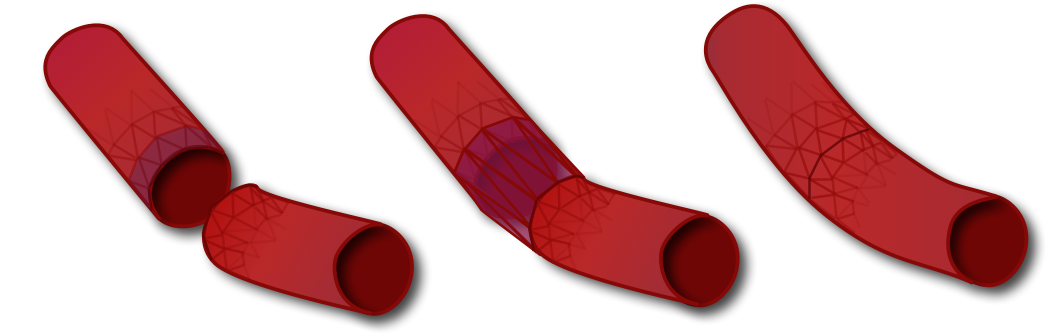
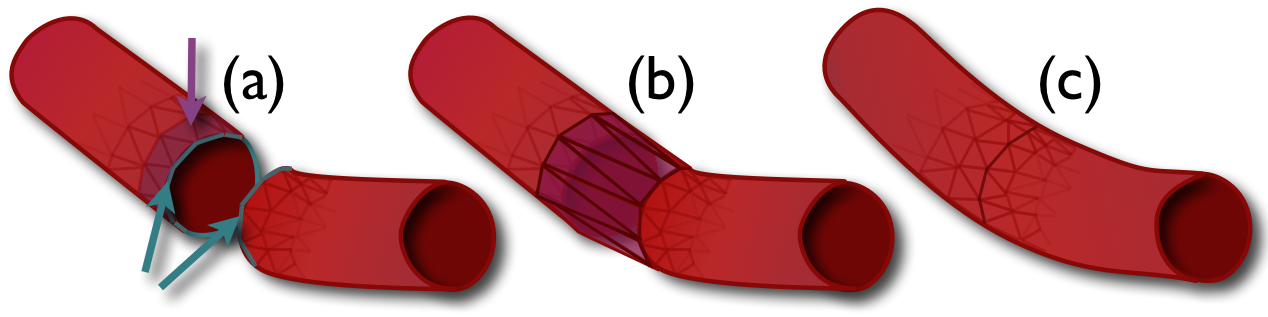
modifs on section 3
git-svn-id: svn+ssh://scm.gforge.inria.fr/svnroot/sofa-shells@351 7b2761c9-2758-49ef-8c29-9c9f1e1aad1b

Changed region(s): [[0.0, 0.0, 1.0, 0.9937]]

diff --git a/Doc/Miccai/simulation.tex b/Doc/Miccai/simulation.tex
@@ -1,9 +1,9 @@
+The primary goal of the surgery is to restore a normal heart function and circulation.
+This goal is reached by rebuilding the heart in a more or less anatomical way.
 There are several types of low-level task the surgeon usually employs while
-performing the surgery.
-The most common:
+performing the surgery that are:
 
 \begin{description}
-  \item Reconnection and joining of blood vessels to the arteries.
 
   \item[End to end aortoplasty:] the surgeon completely cuts away the
     affected part of aorta and sutures the two ends of aorta back together.
@@ -16,39 +16,40 @@ The most common:
     removing also half of the artery (along the axis) and part of the
     aorta in the affected place. He then uses the rest of the artery to
     patch the aorta.
+    
+  \item[Reconnection and joining of blood vessels:] In addition to the modification of the aorta, the surgeon is lead to establish certain connections that are absent in pathological anatomy.
 
 \end{description}
 
-With our method we are able to simulate all these tasks.
-We have based our general approach on the common task involved in all these operations which is suturing of two or more edges together.
-Since we are interested in predicting the result rather than creating a training simulator for suturing (trained surgeon knows well how to perform the sutures) the simplest way of performing the suture would be to connect the respective edges with springs. 
+With our method we are able to simulate these tasks, in order to be able to plan them.
+We have based our general approach on a common characteristic: In all these operations the surgeon sutures two or more edges of the vessel walls together.
+Since we are interested in predicting the results rather than creating a training simulator for suturing (trained surgeon knows well how to perform the sutures) the simplest way of performing the suture would be to connect the respective edges with springs. 
 Springs however adds some unwanted energy to the system. 
-Our method is based solely on the relaxation of the mesh of shell elements.
-%% christian: I like the "relaxation" term !!!
+Our method is based on a topological connection of the shell elements that are neighbors of the joining edges and a controlled relaxation of these shell elements' rest shape.
 
 We start with a mesh representing the situation after all the cuts have been performed but before suturing takes place. 
 In the first step we perform the required topological changes to the mesh. We keep the number of elements in new mesh the same as in the original mesh so that we can define 1:1 mapping between elements of these meshes.
-The Figure \ref{fig-JoiningVessels} explains this operation when joining vessels. 
-Then we start the simulation on the modified mesh while using the original mesh to define rest shapes of all shell elements. 
+The Figure \ref{fig-JoiningVessels} (a) and (b) explains this operation when joining vessels. 
+Then we start the simulation on the modified mesh while keeping the information of the original rest shapes of all shell elements. 
 
 \begin{figure}[tbh]
 \begin{center}
 \includegraphics[width=\columnwidth]{img/rest_shape_scheme.png}
 \end{center}
 
-\caption{Scheme showing the method for joining two vessels. \christian{Do we need to extend the scheme for every type of aortoplasty (end to end / Patch / Subclavian): it would illustrate that the relaxation method works for every case...}
-  \tomas{No we don't. This there will be real examples in results (if I remember correctly).} }
+\caption{Scheme showing the method for joining two vessels:  (a) the cut on vessel meshes is performed in a 3D geometry edition software. In the software, we impose that the number of segments that sample both joining edges is the same (\color{BlueGreen}{$\mathbf{\rightarrow}$}\color{black})
+Moreover, we select some shell elements that are neighbors of the edges (\color{purple}{$\mathbf{\rightarrow}$}\color{black}).
+(b) In our software, we connect the vessel topologies by performing a relaxation of the shape and the rest shape for the selected shells.  
+(c) We progressively re-contract the rest shape of the shells while computing the deformation of the whole unified mesh. 
+In the final steady state computed in the simulation, the shell elements have all their correct rest shape.}
 \label{fig-JoiningVessels}
 \end{figure}
 
-In case of non-trivial distance between the nodes that are sutured together the involved elements will undergo large deformation at the beginning of the simulation.
-This results in quick increase of internal forces which can cause unwanted effects.
+We can not always step back all the shells to their original shape (passage from figure \ref{fig-JoiningVessels} (b) to (c))  in a single simulation step. 
+In case of non-small distance between the nodes that are sutured together, the involved elements will undergo large deformation that could create quick and non-smooth increase of internal forces and  cause unwanted effects.
 To allevieate the problem we have implemented the technique that allows for moderate changes in the rest shape between simulation steps.
 Between the start and the end of the simulation we use a linear interpolation of the rest shape for the shells that lie along the sutured edges. 
-\christian{I think that it is unclear that we do the relaxation on some shells that are on the side edges of the connecting line}
-\tomas{I don't understand what do you mean by that. We will have to discuss that.}
-The interpolation starts with the rest shape equal to the deformed elements and we progressively recontract the rest shape of the relaxed shells to their initial shapes. 
-The energetical equilibrium found by the simulation gradually forces the side edges to connect.
-After the mesh relaxes the simulation again terminates.
-
-% vim: et sw=2 tw=0 spell
+The interpolation starts with the rest shape equal to the deformed elements and we progressively lead the elements to recover their original rest shape.
+This way, the simulation gradually forces the side edges to connect without any abrupt jump in the behavior.
+When all elements have recover their original rest shape, the steady state found in the simulation corresponds to a physics-based energetical equilibrium of the shells deformation. 
+Thus, we take these positions as an estimation of the result of the connection of the vessel edges.

diff --git a/Doc/Miccai/miccai2012.tex b/Doc/Miccai/miccai2012.tex
@@ -40,6 +40,7 @@
 %\noindent\keywordname\enspace\ignorespaces#1}
 
 \usepackage{color}
+\usepackage[usenames,dvipsnames]{xcolor}
 \usepackage{amsmath}
 \usepackage[tight]{subfigure}
 \usepackage{listings}
